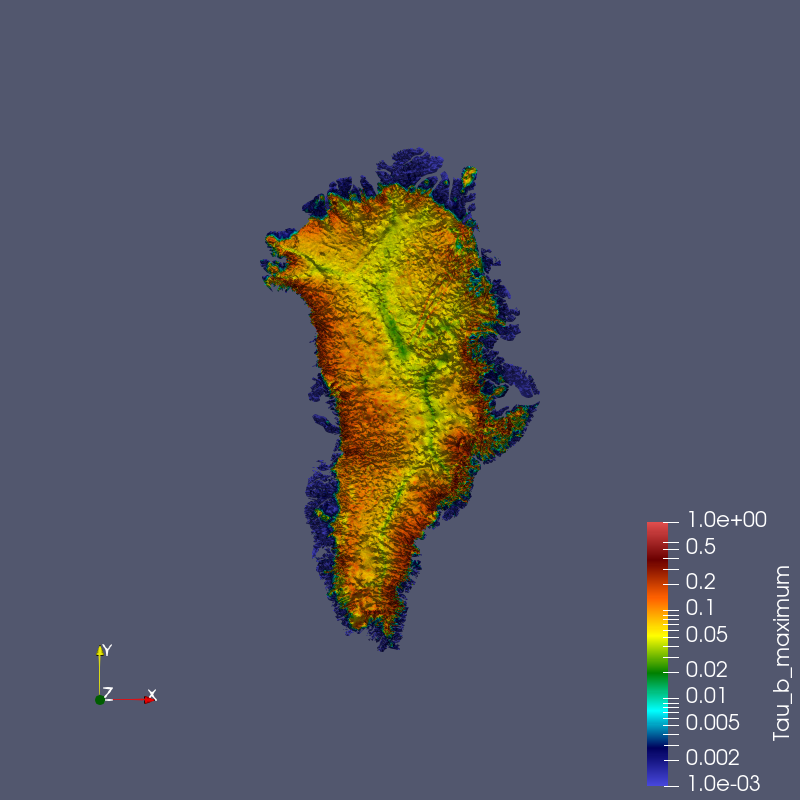
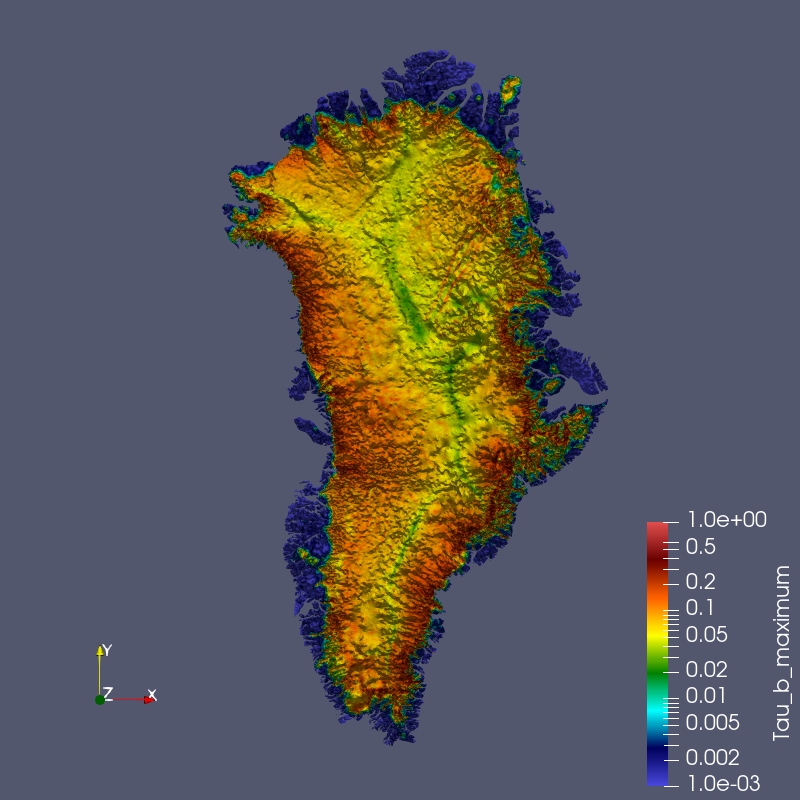
add all views of glaciers

Changed region(s): [[0.2812, 0.0625, 0.7812, 0.9375]]

diff --git a/postpro/pvpython/greenland.py b/postpro/pvpython/greenland.py
@@ -9,7 +9,7 @@ paraview.simple._DisableFirstRenderCameraReset()
 vertical_scale=10
 
 ###############################
-def greenland_results(PVDfile=None,GridFile=None,BedId=102):
+def greenland_results(PVDfile=None,GridFile=None,BedId=102, list_glacier=['Jakobsen', 'Newman', '79NorthLarge', '79NorthZoom', 'Upernavik', 'West', 'Kanger', 'Helheim']):
 
   # get active view
   SurfaceView = GetActiveViewOrCreate('RenderView')
@@ -96,6 +96,13 @@ def greenland_results(PVDfile=None,GridFile=None,BedId=102):
   ResultTaub(calculatorCV_Taub, 'CV_Tau_b(%)', [1,100])
 
 
+## we plot now the average, the std and CV for the list of glaciers
+  for glacier in list_glacier:
+    ResultTaub(calculatorCV_Taub, 'Tau_b_average', choice_view=glacier)
+    ResultTaub(calculatorCV_Taub, 'Tau_b_stddev', [0.00001,0.1], choice_view=glacier)
+    ResultTaub(calculatorCV_Taub, 'CV_Tau_b(%)', [1,100], choice_view=glacier)
+
+
 
 ## project surface results on the observation grid
   if (GridFile != None):
@@ -107,50 +114,83 @@ def greenland_results(PVDfile=None,GridFile=None,BedId=102):
      ProjectToGrid(run,GridFile,BedId)
 
 ##################################################################################
-### a common config for the views
+### a common config for the view of full greenland
 ############################################################################
-def ViewGreenland(View):
+def ViewGreenland(View, choice_view = 'full'):
+
   # 2D mode
   View.InteractionMode = '2D'
-  # Camera settings
-  View.CameraPosition = [110990.3125, -1996074.0, 8015672.0]
-  View.CameraFocalPoint = [110990.3125, -1996074.0, 9869.0]
-  View.CameraParallelScale = 2106070.0
+   
+  if choice_view == 'full':
+    # Camera settings
+    View.CameraPosition = [110990.3125, -1996074.0, 8015672.0]
+    View.CameraFocalPoint = [110990.3125, -1996074.0, 9869.0]
+    View.CameraParallelScale = 2106070.0
+   
+  elif choice_view == 'Jakobsen':
+    # Camera settings
+    View.CameraPosition = [-141671.6, -2273001.9, 7062504.8]
+    View.CameraFocalPoint = [-141671.6, -2273001.9, 0.0]
+    View.CameraParallelScale = 1262201.1
+   
+  elif choice_view == 'Newman':
+    # Camera settings
+    View.CameraPosition = [-184849.4, -1010779.6, 7062504.8]
+    View.CameraFocalPoint = [-184849.4, -1010779.6, 0.0]
+    View.CameraParallelScale = 155056.3
+   
+  elif choice_view == '79NorthLarge':
+    # Camera settings
+    View.CameraPosition = [406058.8, -1356398.4, 7062504.8]
+    View.CameraFocalPoint = [406058.8, -1356398.4, 0.0]
+    View.CameraParallelScale = 402176.2
+
+  elif choice_view == '79NorthZoom':
+    # Camera settings
+    View.CameraPosition = [465140.3, -1160772.8, 7062504.8]
+    View.CameraFocalPoint = [465140.3, -1160772.8, 0.0]
+    View.CameraParallelScale = 155056.3
+
+  elif choice_view == 'Upernavik':
+    # Camera settings
+    View.CameraPosition = [-275751.1, -1828912.6, 7062504.8]
+    View.CameraFocalPoint = [-275751.1, -1828912.6, 0.0]
+    View.CameraParallelScale = 72334.9
+
+  elif choice_view == 'West':
+    # Camera settings
+    View.CameraPosition = [-272484.2, -1649026.6, 7062504.8]
+    View.CameraFocalPoint = [-272484.2, -1649026.6, 0.0]
+    View.CameraParallelScale = 227018.0
+
+  elif choice_view == 'Kanger':
+    # Camera settings
+    View.CameraPosition = [492643.2, -2284401.3, 7062504.8]
+    View.CameraFocalPoint = [492643.2, -2284401.3, 0.0]
+    View.CameraParallelScale = 155056.3
+
+  elif choice_view == 'Helheim':
+    # Camera settings
+    View.CameraPosition = [323172.1, -2552902.7, 7062504.8]
+    View.CameraFocalPoint = [323172.1, -2552902.7, 0.0]
+    View.CameraParallelScale = 87525.3
+
   View.CameraParallelProjection = 1
 
   if ("viewsize" in globals()) :
       View.ViewSize = viewsize
-
-
-##################################################################################
-### a common config for the views
-############################################################################
-def ViewGreenland(View):
-  # 2D mode
-  View.InteractionMode = '2D'
-  # Camera settings
-  View.CameraPosition = [53435.2, -2003849.5, 7062504.8]
-  View.CameraFocalPoint = [53435.2, -2003849.5, 0.0]
-  View.CameraParallelScale = 1527263.3
-  View.CameraParallelProjection = 1
-
-  if ("viewsize" in globals()) :
-      View.ViewSize = viewsize
-
-
 
 #########################################################
 ## plot the results
 #########################################################
-def ResultTaub(Source=None, Variable='ssavalocity', interval = [0.001,1.0]):
+def ResultTaub(Source=None, Variable='ssavalocity', interval = [0.001,1.0], choice_view = 'full'):
 
   if (Source==None):
     Source=FindSource("Results")
     Source.UpdatePipeline()
 
   SurfaceView = GetActiveViewOrCreate('RenderView')
-  ViewGreenland(SurfaceView)
-
+  ViewGreenland(SurfaceView, choice_view)
   SurfDisplay = Show(Source,SurfaceView)
   
   # set scalar coloring
@@ -177,7 +217,7 @@ def ResultTaub(Source=None, Variable='ssavalocity', interval = [0.001,1.0]):
   
   ## display + savescreen
   Render(SurfaceView)
-  SaveScreenshot(Variable+'.png', SurfaceView)
+  SaveScreenshot(Variable+choice_view+'.png', SurfaceView, ImageResolution=[972, 1181])
 
   # get color transfer function/color map for 'Umod'
 
@@ -214,7 +254,7 @@ def ResultTaub(Source=None, Variable='ssavalocity', interval = [0.001,1.0]):
 
   ## display + savescreen
   Render(SurfaceView)
-  SaveScreenshot(Variable+'contour.png', SurfaceView)
+  SaveScreenshot(Variable+choice_view+'contour.png', SurfaceView, ImageResolution=[972, 1181])
   Hide(Source,SurfaceView)
   Hide(ContourVel,SurfaceView)
 
